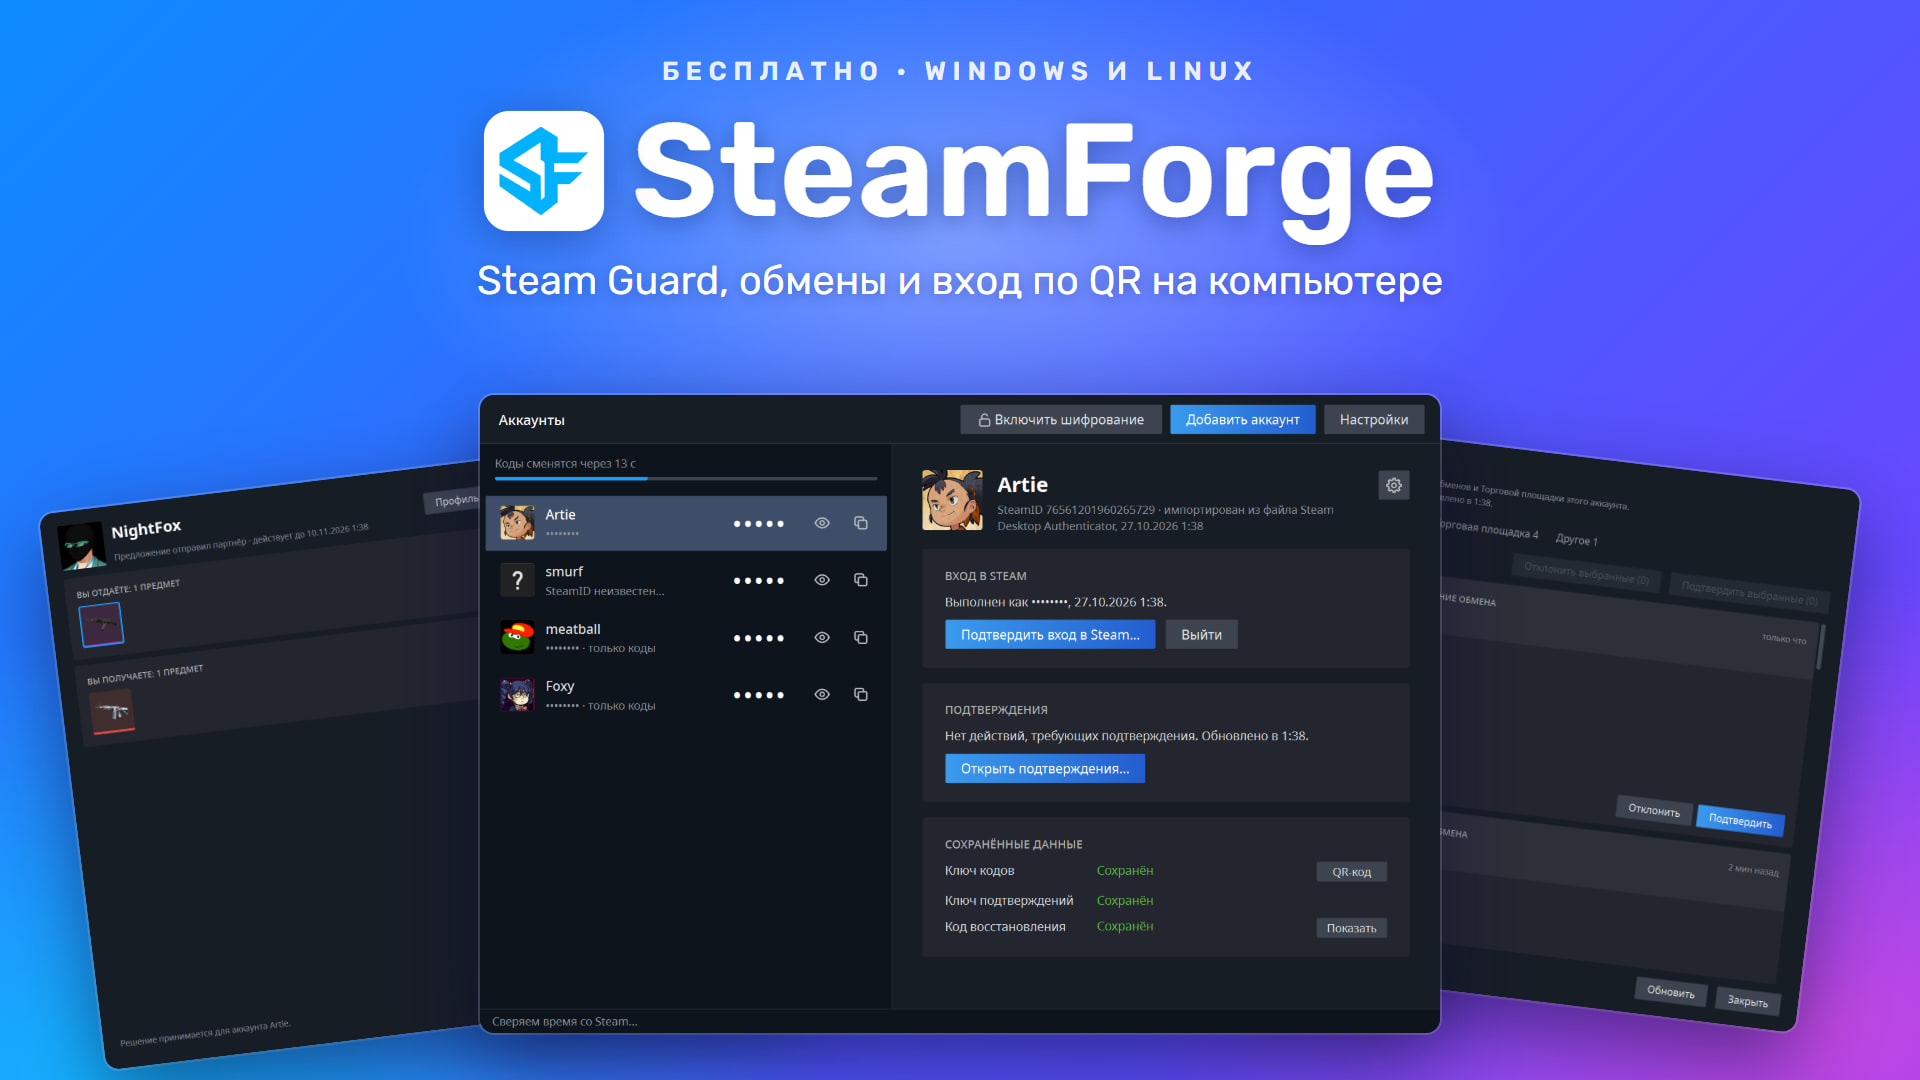
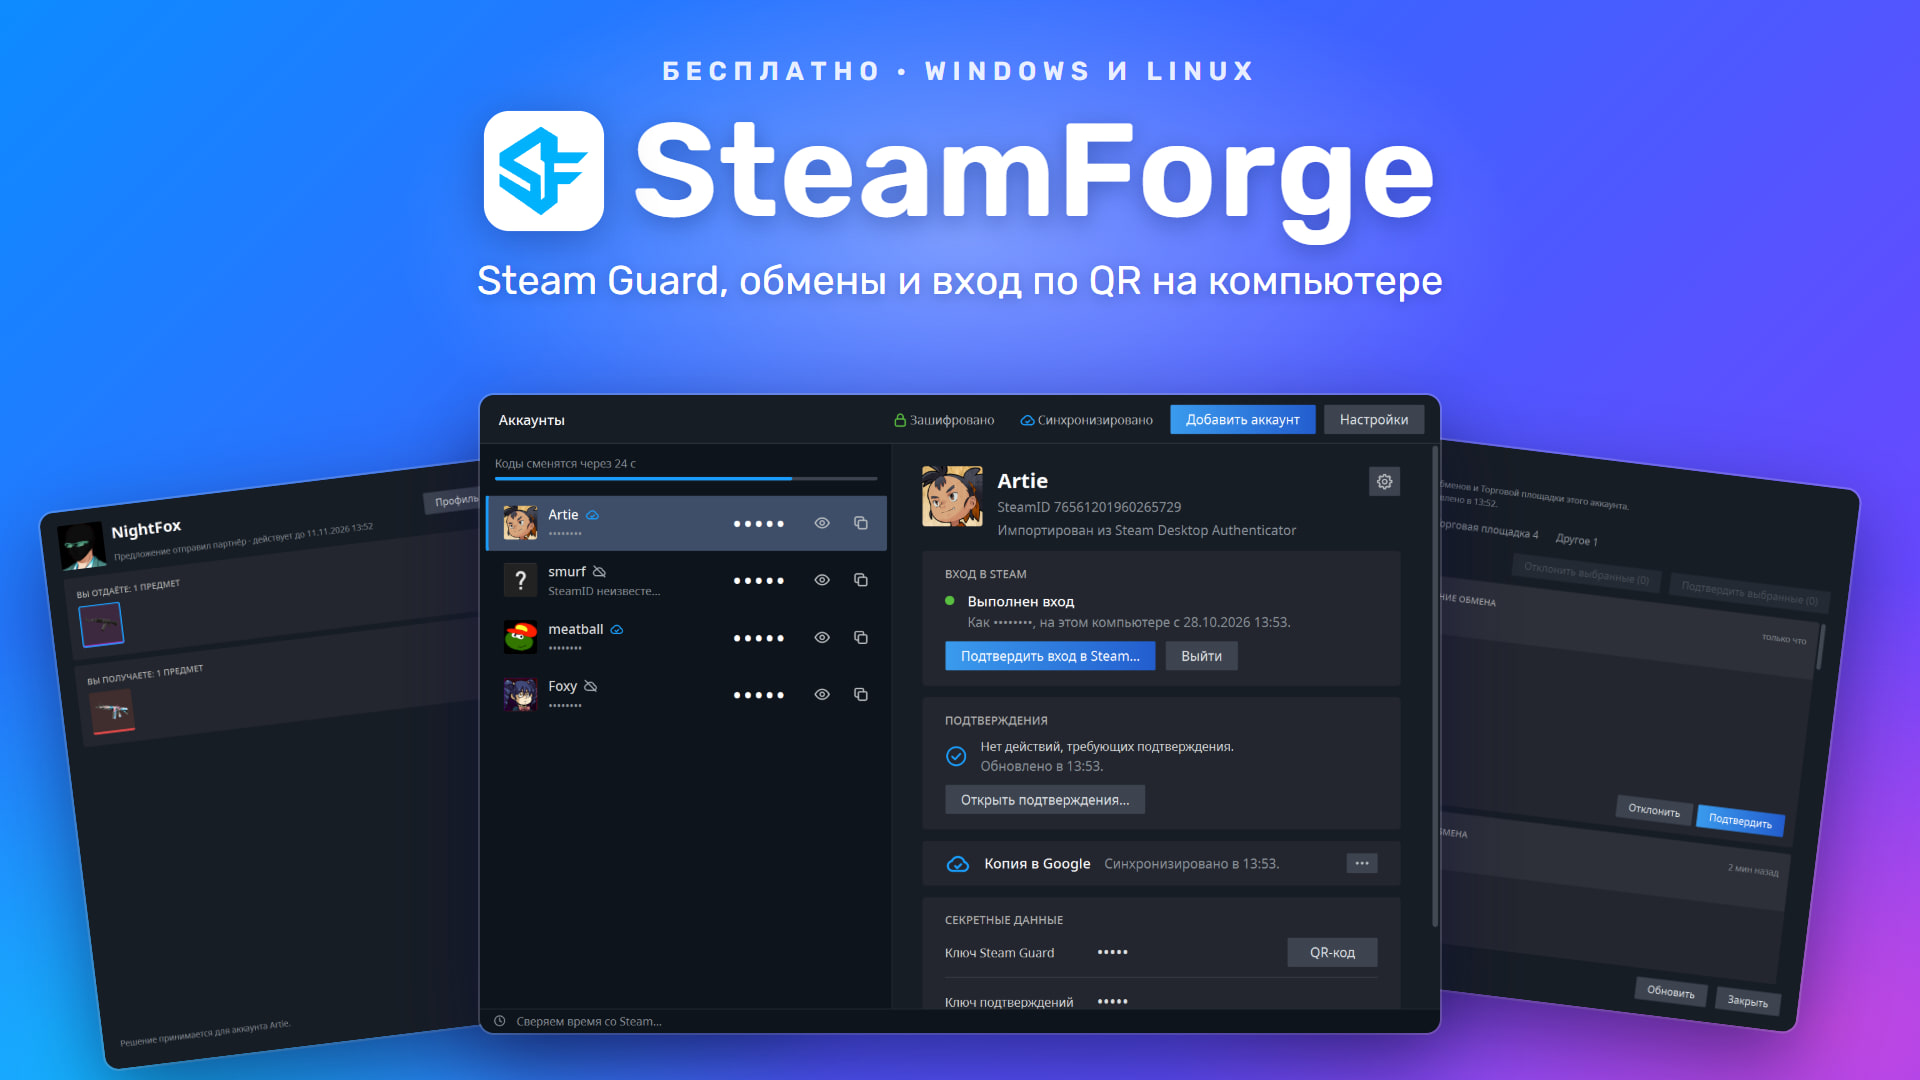
docs: README frames of the new account panel, Google settings and version choice, and a cover with the new main window

diff --git a/README.ru.md b/README.ru.md
@@ -82,7 +82,7 @@ Google не обязателен, SteamForge полностью работает
 
 На другом компьютере подключите тот же Google и введите ключ восстановления. Отмеченные аккаунты появятся сами.
 
-![Настройки, раздел Google: у каждого аккаунта галочка «в Google»](.github/readme/google-ru.webp)
+![Настройки, раздел Google: галочки у аккаунтов и статусы «В Google», «Только здесь», «Только в Google»](.github/readme/google-ru.webp)
 
 - В Google уходят только данные Steam Guard, зашифрованные ещё на вашем компьютере. Вход в Steam на каждом компьютере свой.
 - Файлы лежат в скрытой папке приложения на вашем Google Диске. В обычном списке файлов их не видно.

diff --git a/README.md b/README.md
@@ -82,7 +82,7 @@ Google is optional: SteamForge works fully without it. With Google connected, th
 
 On another computer, connect the same Google account and enter the recovery key. The ticked accounts appear by themselves.
 
-![Settings, Google section: every account has an "in Google" tick](.github/readme/google-en.webp)
+![Settings, Google section: ticks next to the accounts and the statuses "In Google", "Only here", "Only in Google"](.github/readme/google-en.webp)
 
 - Only Steam Guard data goes to Google, encrypted on your computer before it leaves. Each computer keeps its own Steam sign-in.
 - The files are in the hidden app folder of your Google Drive. They do not show in the usual list of files.
